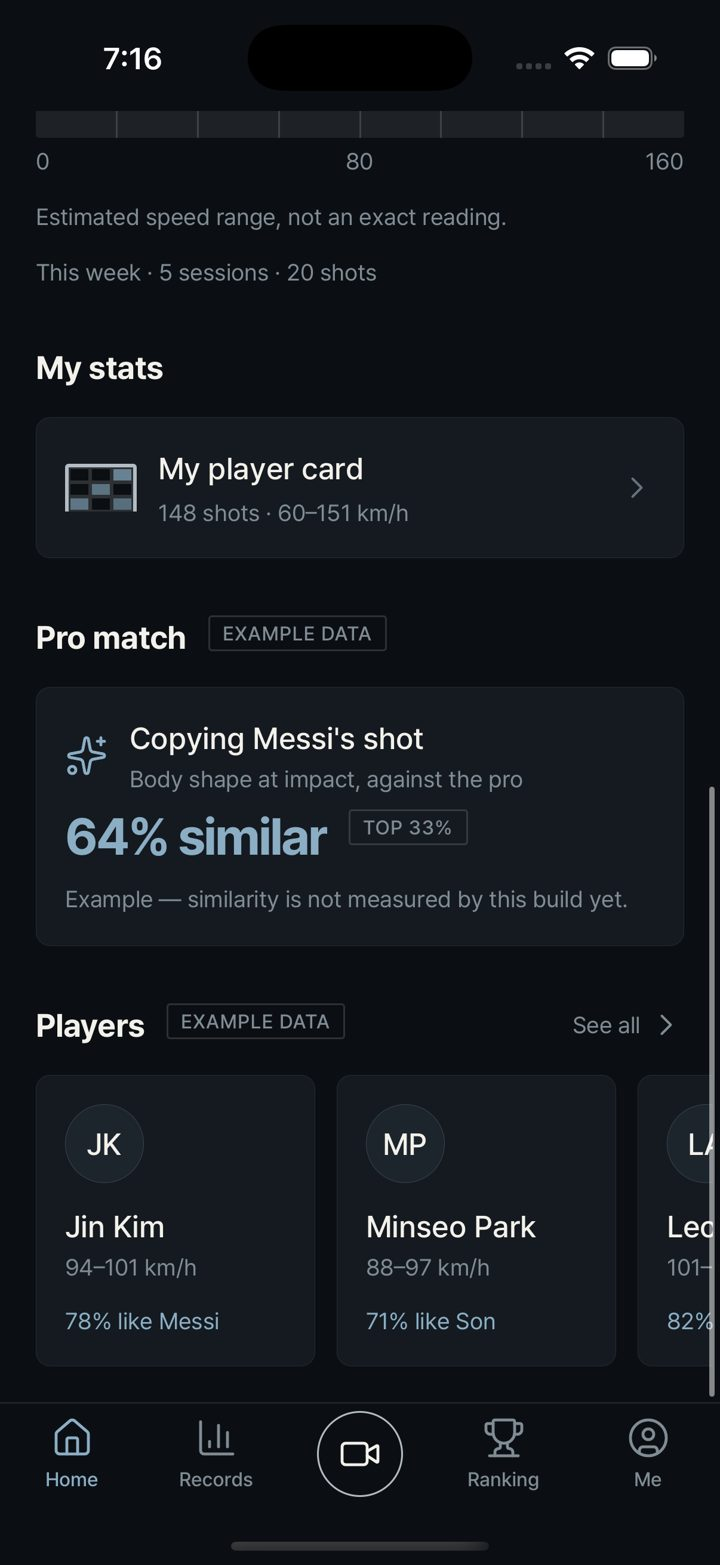
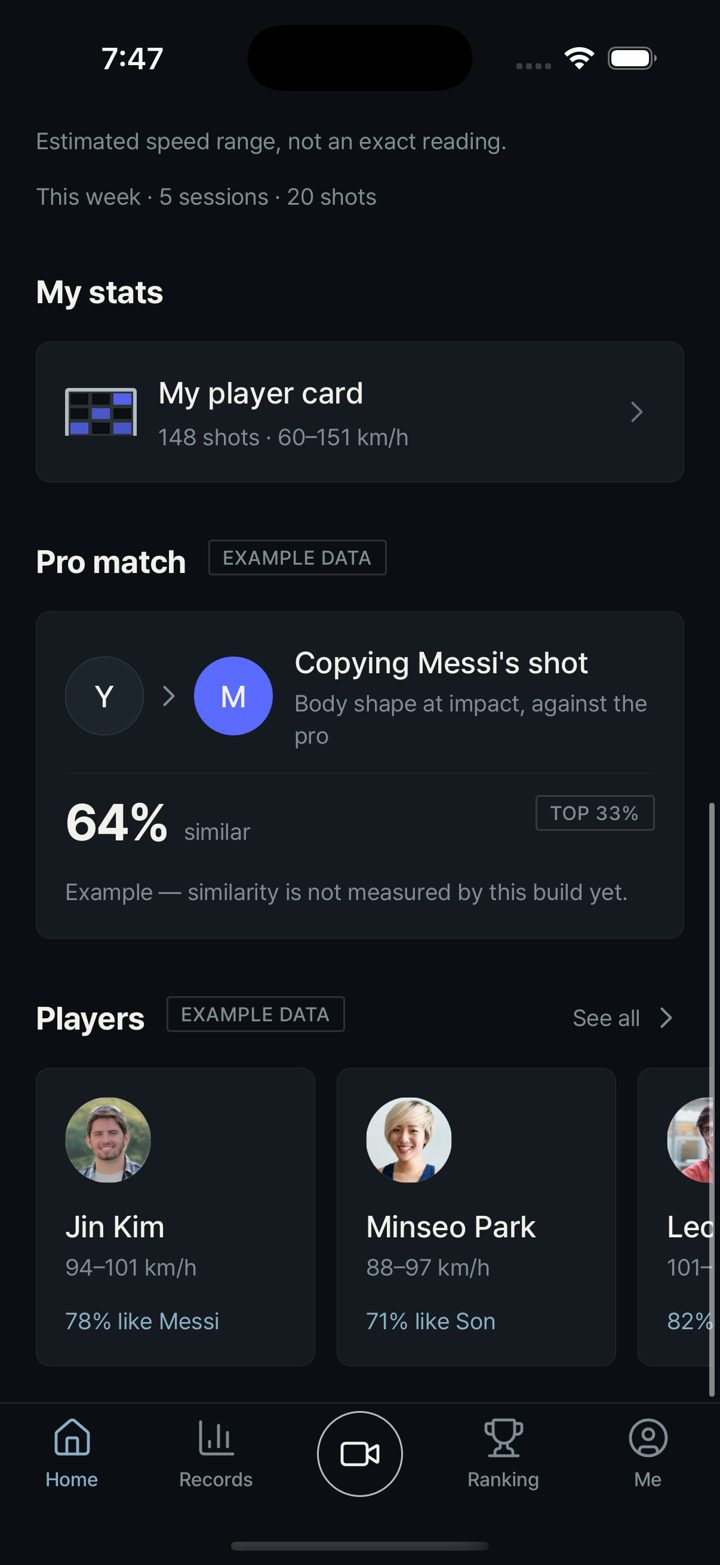
rev 2: portraits, Sofascore chart colours, pro-match card

diff --git a/index.html b/index.html
@@ -12,8 +12,8 @@ figcaption{font-size:13px;color:var(--muted);margin-top:8px}
 .note{background:var(--card);border:1px solid var(--line);border-radius:12px;padding:12px 16px;margin:12px 0}
 footer{max-width:1400px;margin:24px auto;padding:16px 20px;border-top:1px solid var(--line);color:var(--muted);font-size:13px}
 </style></head><body>
-<header><h1>STRYKE — UI preview</h1><p>Native iOS simulator captures (iPhone 17 Pro), 17 September 2026, branch <code>vxbrandon/dev-2026-09-17-2</code>. Every player, similarity figure and shot map on these screens is <strong>example data</strong> and is marked as such on the screen itself.</p>
+<header><h1>STRYKE — UI preview</h1><p>Native iOS simulator captures (iPhone 17 Pro), 17 September 2026 (rev 2: portraits, Sofascore chart colours, new pro-match card), branch <code>vxbrandon/dev-2026-09-17-2</code>. Every player, similarity figure and shot map on these screens is <strong>example data</strong> and is marked as such on the screen itself.</p>
 <div class="note">Flow: loading animation → landing page (first launch only) → Home (my stats · pro match · players) → player card (shot map · zone % · speed · stats · add friend) → Records (ribbon chart) → Ranking → Me.</div></header>
-<section><h2>Loading</h2><div class="row"><figure><img src="img/00-splash_8.jpg" alt="Loading page — the STRYKE mark strikes in along its outline" loading="lazy"><figcaption>Loading page — the STRYKE mark strikes in along its outline</figcaption></figure><figure><img src="img/01-splash_9.jpg" alt="Loading page — the lime accent flashes along the stroke" loading="lazy"><figcaption>Loading page — the lime accent flashes along the stroke</figcaption></figure><figure><img src="img/02-splash_10.jpg" alt="Loading page — filled mark and wordmark, before the plate lifts" loading="lazy"><figcaption>Loading page — filled mark and wordmark, before the plate lifts</figcaption></figure></div></section><section><h2>Landing</h2><div class="row"><figure><img src="img/03-w1.jpg" alt="Landing page (first launch) — silhouettes from the asset board, three promises, Get started" loading="lazy"><figcaption>Landing page (first launch) — silhouettes from the asset board, three promises, Get started</figcaption></figure></div></section><section><h2>Home</h2><div class="row"><figure><img src="img/04-home_top.jpg" alt="Home — capture first, recent session" loading="lazy"><figcaption>Home — capture first, recent session</figcaption></figure><figure><img src="img/05-home_c.jpg" alt="Home — My stats, Pro match (example), Players rail" loading="lazy"><figcaption>Home — My stats, Pro match (example), Players rail</figcaption></figure><figure><img src="img/06-home_d.jpg" alt="Home — players rail, friends first" loading="lazy"><figcaption>Home — players rail, friends first</figcaption></figure></div></section><section><h2>Records</h2><div class="row"><figure><img src="img/07-records.jpg" alt="Records — weekly top speed as a ribbon instead of bars" loading="lazy"><figcaption>Records — weekly top speed as a ribbon instead of bars</figcaption></figure></div></section><section><h2>Players</h2><div class="row"><figure><img src="img/08-list1.jpg" alt="Players list — everyone / friends, example mark on every row" loading="lazy"><figcaption>Players list — everyone / friends, example mark on every row</figcaption></figure></div></section><section><h2>Player card</h2><div class="row"><figure><img src="img/09-p9.jpg" alt="Player card — Shot map (dots inside, crosses outside), inside-goal rate" loading="lazy"><figcaption>Player card — Shot map (dots inside, crosses outside), inside-goal rate</figcaption></figure><figure><img src="img/10-p6.jpg" alt="Player card — Zone % grid, foot filter" loading="lazy"><figcaption>Player card — Zone % grid, foot filter</figcaption></figure><figure><img src="img/11-p7b.jpg" alt="Player card — Speed: weekly ribbon, gap for the week with no record" loading="lazy"><figcaption>Player card — Speed: weekly ribbon, gap for the week with no record</figcaption></figure><figure><img src="img/12-p8.jpg" alt="Player card — Stats tab, key stats list" loading="lazy"><figcaption>Player card — Stats tab, key stats list</figcaption></figure><figure><img src="img/13-me1.jpg" alt="My own card — built from the phone&#x27;s real shots" loading="lazy"><figcaption>My own card — built from the phone&#x27;s real shots</figcaption></figure></div></section><section><h2>Ranking</h2><div class="row"><figure><img src="img/14-rankings.jpg" alt="Ranking — board needs the dev Postgres (see notes); rows open a player card when it is up" loading="lazy"><figcaption>Ranking — board needs the dev Postgres (see notes); rows open a player card when it is up</figcaption></figure></div></section><section><h2>Me</h2><div class="row"><figure><img src="img/15-metab.jpg" alt="Me — My player card and Intro rows added" loading="lazy"><figcaption>Me — My player card and Intro rows added</figcaption></figure></div></section>
+<section><h2>Loading</h2><div class="row"><figure><img src="img/00-splash_8.jpg" alt="Loading page — the STRYKE mark strikes in along its outline" loading="lazy"><figcaption>Loading page — the STRYKE mark strikes in along its outline</figcaption></figure><figure><img src="img/01-splash_9.jpg" alt="Loading page — the lime accent flashes along the stroke" loading="lazy"><figcaption>Loading page — the lime accent flashes along the stroke</figcaption></figure><figure><img src="img/02-splash_10.jpg" alt="Loading page — filled mark and wordmark, before the plate lifts" loading="lazy"><figcaption>Loading page — filled mark and wordmark, before the plate lifts</figcaption></figure></div></section><section><h2>Landing</h2><div class="row"><figure><img src="img/03-w1.jpg" alt="Landing page (first launch) — silhouettes from the asset board, three promises, Get started" loading="lazy"><figcaption>Landing page (first launch) — silhouettes from the asset board, three promises, Get started</figcaption></figure></div></section><section><h2>Home</h2><div class="row"><figure><img src="img/04-home_top.jpg" alt="Home — capture first, recent session" loading="lazy"><figcaption>Home — capture first, recent session</figcaption></figure><figure><img src="img/05-home_c.jpg" alt="Home — My stats, Pro match (player → pro discs), Players rail with portraits" loading="lazy"><figcaption>Home — My stats, Pro match (player → pro discs), Players rail with portraits</figcaption></figure></div></section><section><h2>Records</h2><div class="row"><figure><img src="img/06-records.jpg" alt="Records — weekly top speed as a ribbon instead of bars" loading="lazy"><figcaption>Records — weekly top speed as a ribbon instead of bars</figcaption></figure></div></section><section><h2>Players</h2><div class="row"><figure><img src="img/07-list1.jpg" alt="Players list — portraits, everyone / friends, example mark on every row" loading="lazy"><figcaption>Players list — portraits, everyone / friends, example mark on every row</figcaption></figure></div></section><section><h2>Player card</h2><div class="row"><figure><img src="img/08-p1b.jpg" alt="Player card — portrait header, best-speed band, Add friend" loading="lazy"><figcaption>Player card — portrait header, best-speed band, Add friend</figcaption></figure><figure><img src="img/09-p9.jpg" alt="Player card — Shot map: green inside, red outside (Sofascore hit/miss colours)" loading="lazy"><figcaption>Player card — Shot map: green inside, red outside (Sofascore hit/miss colours)</figcaption></figure><figure><img src="img/10-p6.jpg" alt="Player card — Zone % grid on the Sofascore blue heat scale" loading="lazy"><figcaption>Player card — Zone % grid on the Sofascore blue heat scale</figcaption></figure><figure><img src="img/11-p7b.jpg" alt="Player card — Speed: weekly ribbon, gap for the week with no record" loading="lazy"><figcaption>Player card — Speed: weekly ribbon, gap for the week with no record</figcaption></figure><figure><img src="img/12-p8.jpg" alt="Player card — Stats tab, key stats list" loading="lazy"><figcaption>Player card — Stats tab, key stats list</figcaption></figure><figure><img src="img/13-me1.jpg" alt="My own card — built from the phone&#x27;s real shots" loading="lazy"><figcaption>My own card — built from the phone&#x27;s real shots</figcaption></figure></div></section><section><h2>Ranking</h2><div class="row"><figure><img src="img/14-rankings.jpg" alt="Ranking — board needs the dev Postgres (see notes); rows open a player card when it is up" loading="lazy"><figcaption>Ranking — board needs the dev Postgres (see notes); rows open a player card when it is up</figcaption></figure></div></section><section><h2>Me</h2><div class="row"><figure><img src="img/15-metab.jpg" alt="Me — My player card and Intro rows added" loading="lazy"><figcaption>Me — My player card and Intro rows added</figcaption></figure></div></section>
 <footer>Loading frames are single simulator screenshots taken during the animation. The ranking board reads the local API, whose Postgres was not running when these were taken; with <code>make db-up &amp;&amp; make seed-demo</code> its rows open the matching player card.</footer>
 </body></html>
